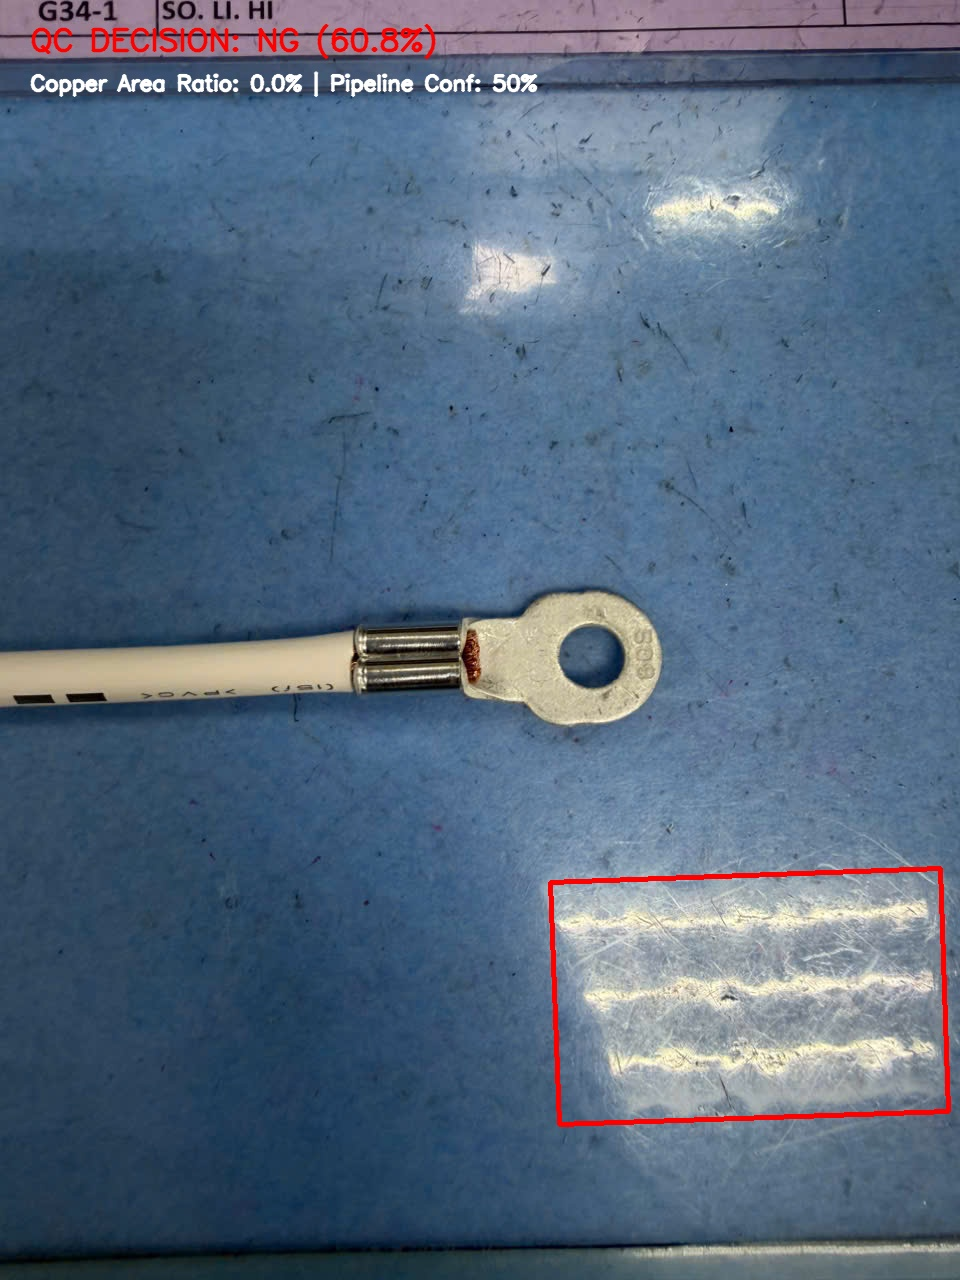
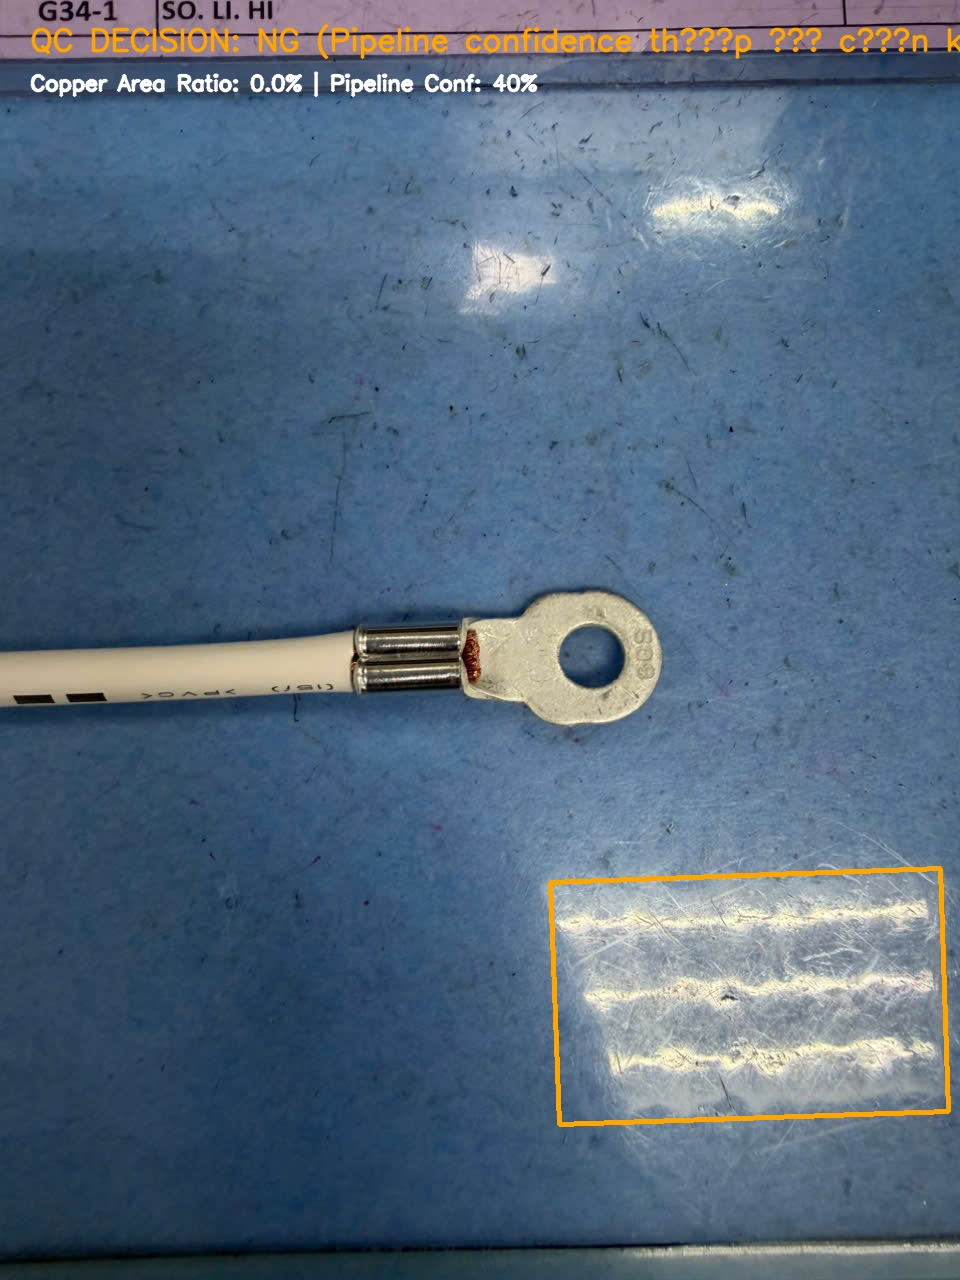
feat: multi-strategy background removal (blue HSV + wire LAB + edge Canny + Otsu) - works on any background color/texture

diff --git a/defect_detection_huggingface/preprocessing/image_processor.py b/defect_detection_huggingface/preprocessing/image_processor.py
@@ -193,70 +193,145 @@ class ImageProcessor:
     # ──────────────────────────────────────────────────────────
     def _step1_remove_background(self, img, h, w):
         """
-        Tách nền bền vững:
-        - Phát hiện nền xanh dương bằng HSV range
-        - Kết hợp Otsu trên grayscale để xử lý trường hợp nền không xanh
-        - Dùng tỷ lệ diện tích thay vì ngưỡng cố định
+        Tách nền đa chiến lược — hoạt động với BẤT KỲ nền nào:
+        1. Phát hiện nền xanh dương (HSV)
+        2. Phát hiện dây trắng + kim loại sáng (LAB lightness + low saturation)
+        3. Edge-based (Canny + morphological) cho nền có texture
+        4. Otsu với blur mạnh (fallback cuối)
+        Chọn chiến lược cho kết quả contour tốt nhất (dài, rõ ràng).
         """
         min_area = int(h * w * self.min_contour_ratio)
-
-        # Chiến lược 1: Phát hiện nền xanh dương bằng HSV
         hsv = cv2.cvtColor(img, cv2.COLOR_BGR2HSV)
-        # Khoảng HSV rộng cho nền xanh dương (bao phủ nhiều shade)
+        gray = cv2.cvtColor(img, cv2.COLOR_BGR2GRAY)
+        lab = cv2.cvtColor(img, cv2.COLOR_BGR2LAB)
+
+        candidate_masks = []
+
+        # ── Chiến lược 1: Nền xanh dương ──
         lower_blue = np.array([85, 30, 50])
         upper_blue = np.array([135, 255, 255])
         blue_mask = cv2.inRange(hsv, lower_blue, upper_blue)
-
-        # Nếu nền xanh chiếm > 20% ảnh → dùng chiến lược tách nền xanh
         blue_ratio = np.sum(blue_mask > 0) / (h * w)
-        if blue_ratio > 0.20:
-            # Foreground = phần KHÔNG phải nền xanh
-            fg_mask = cv2.bitwise_not(blue_mask)
-        else:
-            # Chiến lược 2: Otsu trên grayscale (fallback cho nền không xanh)
-            gray = cv2.cvtColor(img, cv2.COLOR_BGR2GRAY)
-            blurred = cv2.GaussianBlur(gray, (7, 7), 0)
-            _, fg_mask = cv2.threshold(blurred, 0, 255, cv2.THRESH_BINARY + cv2.THRESH_OTSU)
+        if blue_ratio > 0.15:
+            fg1 = cv2.bitwise_not(blue_mask)
+            candidate_masks.append(("blue_bg", fg1))
 
-            # Nếu foreground chiếm quá nhiều → đảo ngược mask
-            fg_ratio = np.sum(fg_mask > 0) / (h * w)
-            if fg_ratio > 0.7:
-                fg_mask = cv2.bitwise_not(fg_mask)
+        # ── Chiến lược 2: Phát hiện dây trắng + kim loại sáng ──
+        # Sản phẩm cos đồng = dây trắng (L cao, S thấp) + đầu kim loại (L cao)
+        l_channel = lab[:, :, 0]       # Lightness
+        s_channel = hsv[:, :, 1]       # Saturation
 
-        # Morphological cleanup mạnh
+        # Vùng sáng VÀ ít màu → dây trắng + kim loại
+        bright_threshold = np.percentile(l_channel, 65)
+        low_sat_threshold = np.percentile(s_channel, 50)
+        wire_mask = ((l_channel > bright_threshold) & (s_channel < low_sat_threshold)).astype(np.uint8) * 255
+        candidate_masks.append(("wire_detect", wire_mask))
+
+        # ── Chiến lược 3: Edge-based (cho nền có texture) ──
+        blurred_edge = cv2.GaussianBlur(gray, (5, 5), 0)
+        edges = cv2.Canny(blurred_edge, 30, 100)
+        # Nối các edge lại thành vùng kín
+        kernel_edge = cv2.getStructuringElement(cv2.MORPH_RECT, (15, 15))
+        edges_closed = cv2.morphologyEx(edges, cv2.MORPH_CLOSE, kernel_edge, iterations=4)
+        # Fill holes
+        edges_filled = edges_closed.copy()
+        flood_fill_mask = np.zeros((h + 2, w + 2), dtype=np.uint8)
+        cv2.floodFill(edges_filled, flood_fill_mask, (0, 0), 255)
+        edges_filled = cv2.bitwise_not(edges_filled)
+        edges_combined = cv2.bitwise_or(edges_closed, edges_filled)
+        candidate_masks.append(("edge_based", edges_combined))
+
+        # ── Chiến lược 4: Otsu với blur mạnh (fallback) ──
+        blurred_heavy = cv2.GaussianBlur(gray, (21, 21), 0)
+        _, otsu_mask = cv2.threshold(blurred_heavy, 0, 255, cv2.THRESH_BINARY + cv2.THRESH_OTSU)
+        fg_ratio = np.sum(otsu_mask > 0) / (h * w)
+        if fg_ratio > 0.6:
+            otsu_mask = cv2.bitwise_not(otsu_mask)
+        candidate_masks.append(("otsu_heavy", otsu_mask))
+
+        # ── Đánh giá và chọn chiến lược tốt nhất ──
         kernel_close = cv2.getStructuringElement(cv2.MORPH_RECT, (9, 9))
         kernel_open = cv2.getStructuringElement(cv2.MORPH_RECT, (5, 5))
-        fg_mask = cv2.morphologyEx(fg_mask, cv2.MORPH_CLOSE, kernel_close, iterations=3)
-        fg_mask = cv2.morphologyEx(fg_mask, cv2.MORPH_OPEN, kernel_open, iterations=2)
 
-        # Tìm contour lớn nhất (không lọc theo aspect ratio hay vị trí)
-        contours, _ = cv2.findContours(
-            fg_mask, cv2.RETR_EXTERNAL, cv2.CHAIN_APPROX_SIMPLE
-        )
+        best_product = None
+        best_score = -1
+        best_mask = None
+        best_strategy = ""
 
-        # Lọc chỉ theo diện tích tương đối
-        candidates = [c for c in contours if cv2.contourArea(c) > min_area]
+        for name, raw_mask in candidate_masks:
+            # Morphological cleanup
+            cleaned = cv2.morphologyEx(raw_mask, cv2.MORPH_CLOSE, kernel_close, iterations=3)
+            cleaned = cv2.morphologyEx(cleaned, cv2.MORPH_OPEN, kernel_open, iterations=2)
 
-        if not candidates:
+            contours, _ = cv2.findContours(
+                cleaned, cv2.RETR_EXTERNAL, cv2.CHAIN_APPROX_SIMPLE
+            )
+
+            candidates = [c for c in contours if cv2.contourArea(c) > min_area]
+            if not candidates:
+                continue
+
+            product = max(candidates, key=cv2.contourArea)
+            area = cv2.contourArea(product)
+
+            # Tính aspect ratio để ưu tiên contour dài (giống dây cos)
+            rect = cv2.minAreaRect(product)
+            rect_w, rect_h = rect[1]
+            if min(rect_w, rect_h) > 0:
+                aspect = max(rect_w, rect_h) / min(rect_w, rect_h)
+            else:
+                aspect = 1.0
+
+            area_ratio = area / (h * w)
+
+            # Score: ưu tiên contour dài (aspect > 2), diện tích vừa phải (5-50% ảnh)
+            score = 0.0
+            # Aspect ratio: sản phẩm cos đồng luôn dài → ưu tiên AR > 2
+            if aspect > 2.0:
+                score += min(aspect, 10.0) * 10
+            else:
+                score += aspect * 2
+
+            # Diện tích: ưu tiên 3-40% ảnh
+            if 0.03 < area_ratio < 0.40:
+                score += 50
+            elif 0.01 < area_ratio <= 0.03:
+                score += 20
+            elif area_ratio >= 0.40:
+                score += 10
+
+            if score > best_score:
+                best_score = score
+                best_product = product
+                best_mask = cleaned
+                best_strategy = name
+
+        if best_product is None:
             return None, None, 0.0
 
-        product = max(candidates, key=cv2.contourArea)
-
-        # Tạo mask sạch chỉ chứa sản phẩm
+        # Tạo mask sạch chỉ chứa sản phẩm tốt nhất
         clean_mask = np.zeros((h, w), dtype=np.uint8)
-        cv2.drawContours(clean_mask, [product], -1, 255, thickness=cv2.FILLED)
-
-        # Cleanup mask cuối cùng
+        cv2.drawContours(clean_mask, [best_product], -1, 255, thickness=cv2.FILLED)
         clean_mask = cv2.morphologyEx(clean_mask, cv2.MORPH_CLOSE, kernel_close, iterations=2)
         clean_mask = cv2.morphologyEx(clean_mask, cv2.MORPH_OPEN, kernel_open)
 
-        # Tính confidence: dựa trên tỷ lệ diện tích sản phẩm (quá nhỏ hoặc quá lớn = thấp)
-        product_ratio = cv2.contourArea(product) / (h * w)
-        conf = min(1.0, product_ratio / 0.05) if product_ratio < 0.05 else \
-               min(1.0, (0.7 - product_ratio) / 0.3) if product_ratio > 0.4 else 1.0
-        conf = max(0.1, conf)
+        # Tính confidence
+        product_ratio = cv2.contourArea(best_product) / (h * w)
+        rect = cv2.minAreaRect(best_product)
+        rect_w, rect_h = rect[1]
+        aspect = max(rect_w, rect_h) / max(min(rect_w, rect_h), 1)
 
-        return clean_mask, product, conf
+        # Sản phẩm lý tưởng: aspect > 3, diện tích 5-30%
+        conf = 0.5
+        if aspect > 3.0:
+            conf += 0.3
+        elif aspect > 2.0:
+            conf += 0.15
+        if 0.05 < product_ratio < 0.30:
+            conf += 0.2
+        conf = max(0.2, min(1.0, conf))
+
+        return clean_mask, best_product, conf
 
     # ──────────────────────────────────────────────────────────
     # Bước 2: Border ngoài + PCA
